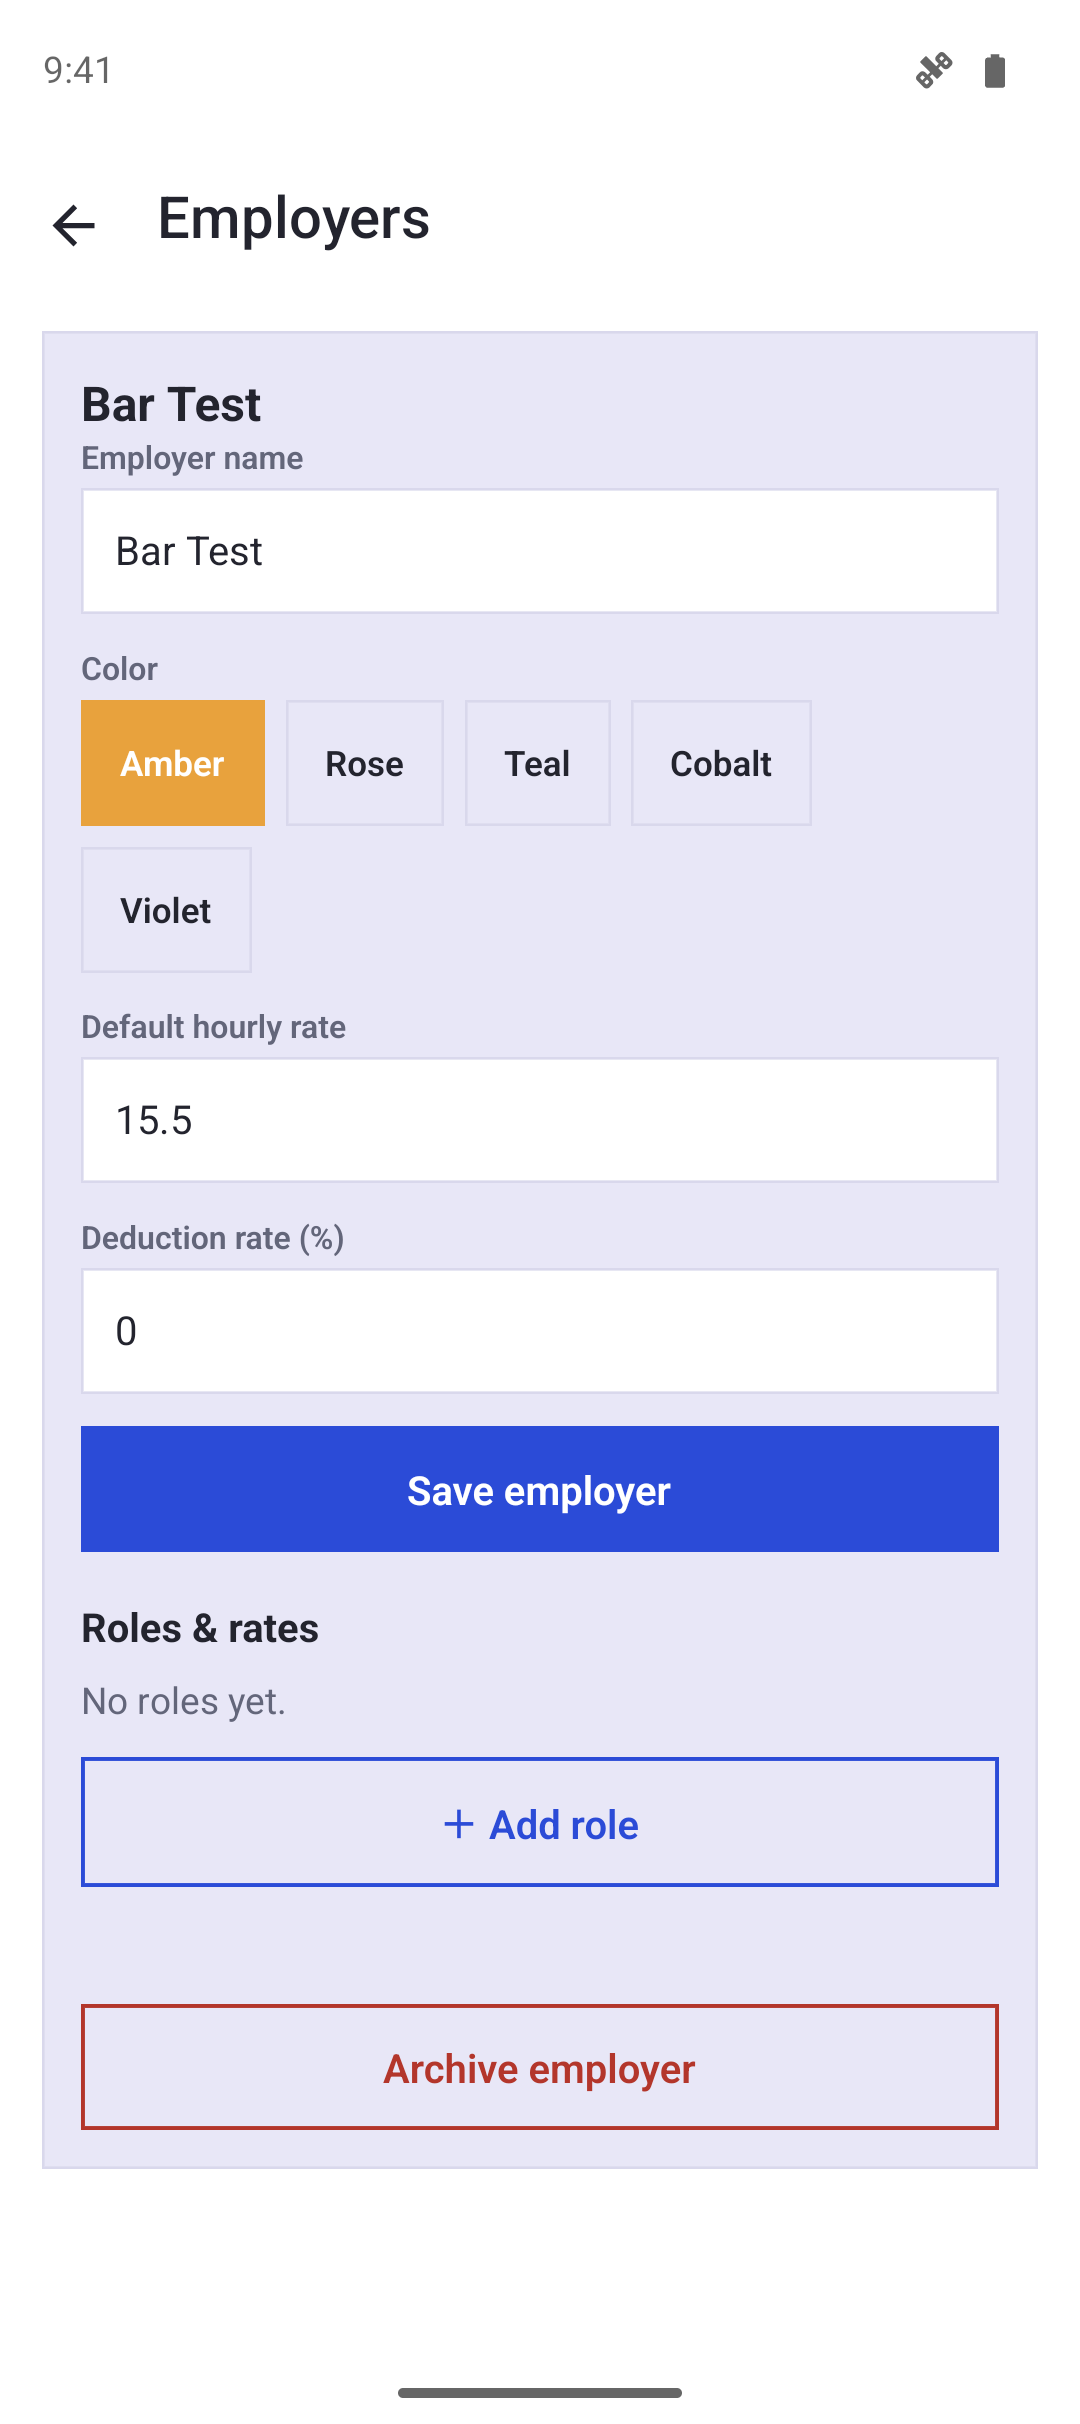
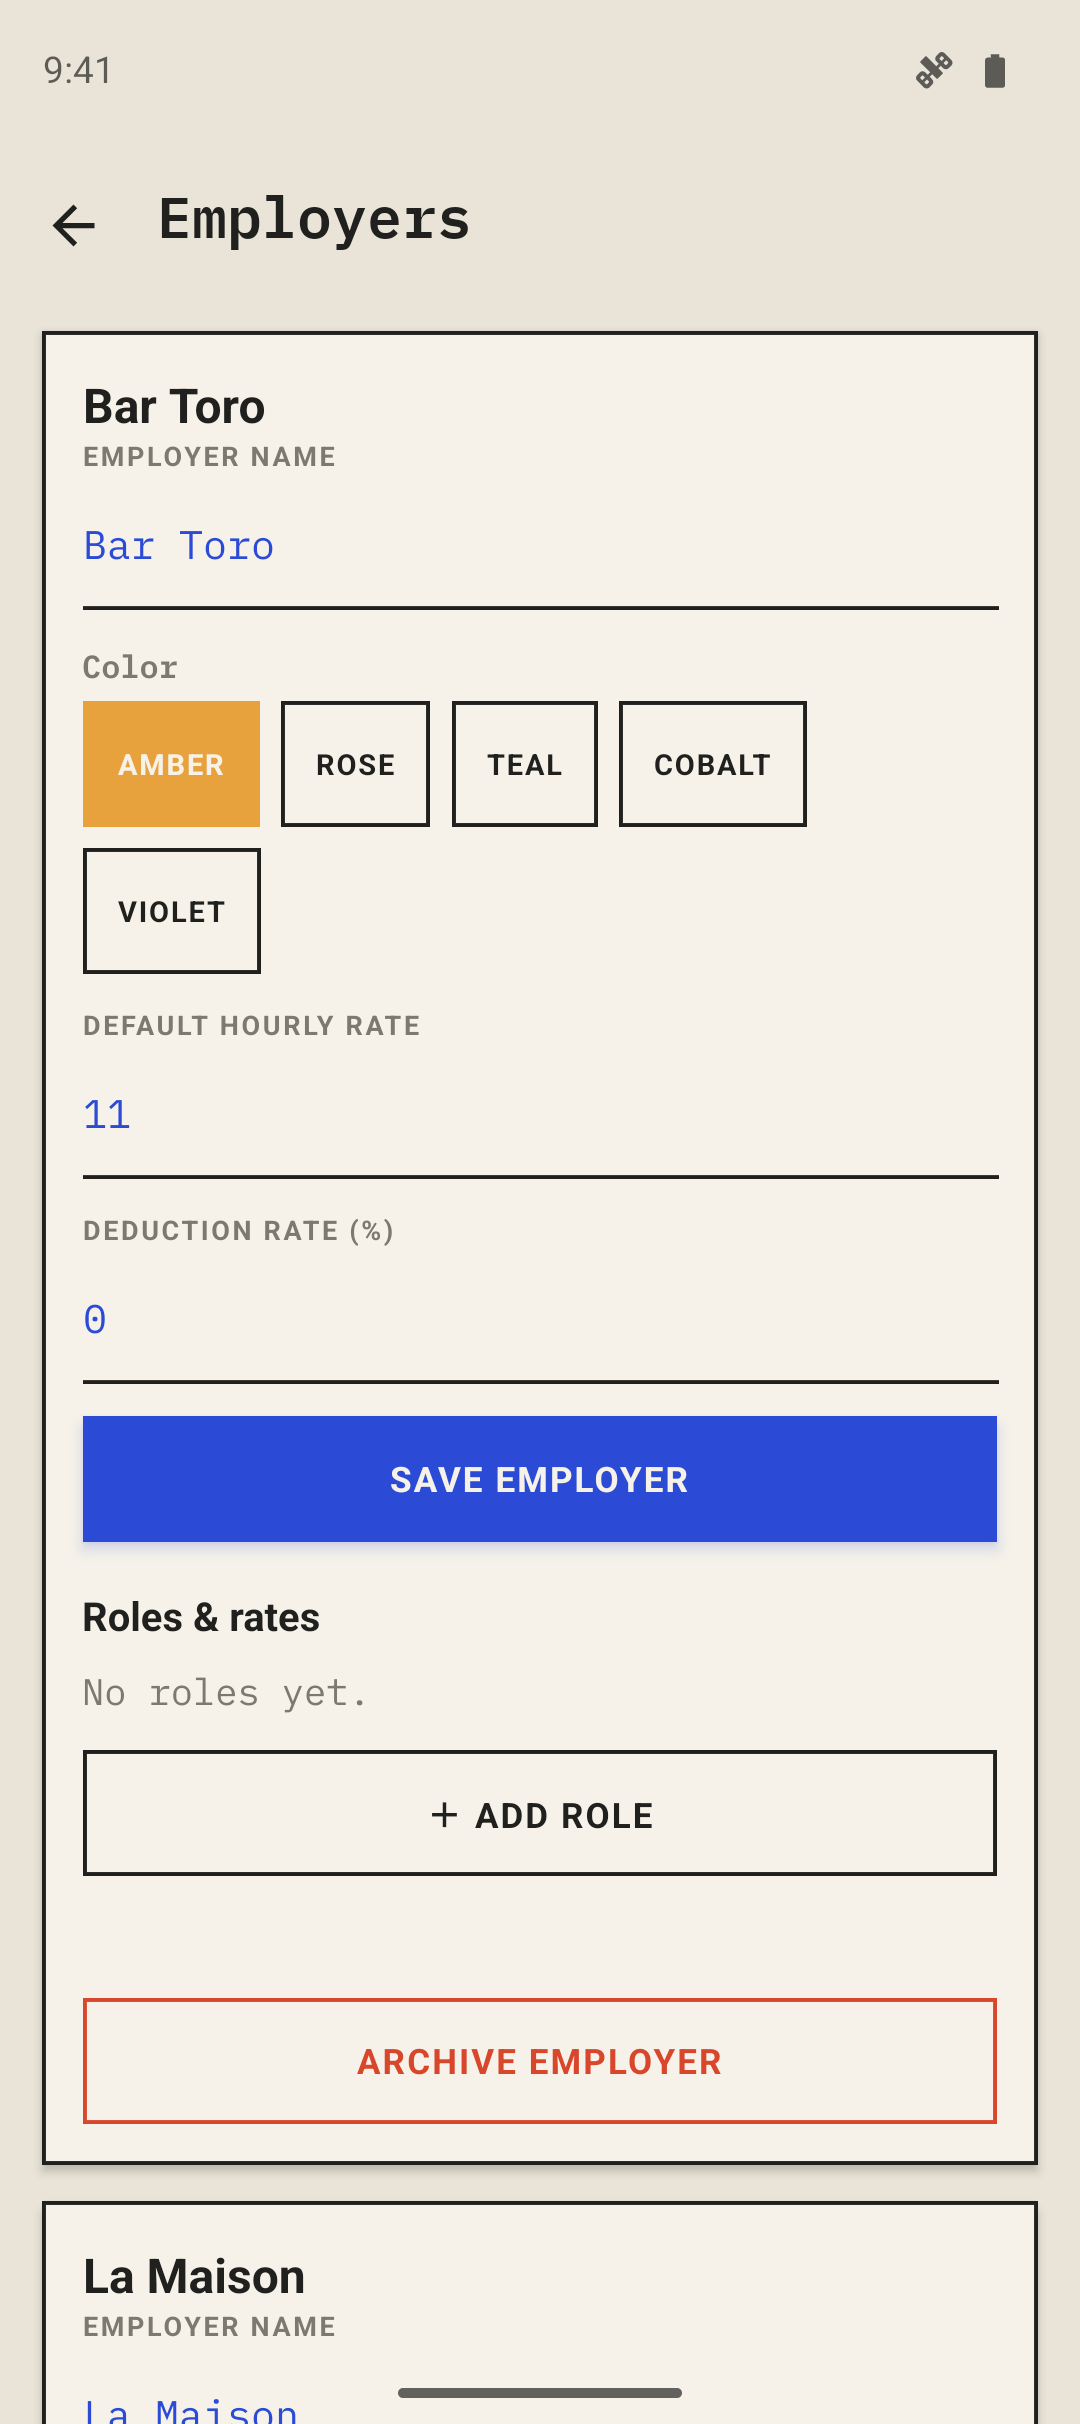
Recapture store screenshots on Shift Receipt redesign
Recaptured all store screens from the redesigned app (commit a107ccd,
'Shift Receipt' design: Home tab, receipt visual system, IBM Plex Mono) on a
Pixel 9 emulator, light mode, 1080-wide. Seeded a realistic week through the UI:
two employers (Bar Toro, La Maison), two closed-out shifts, one to close out,
one planned tonight — every figure is a real capture, no mockups.

- Adds new lead screen 00-home (week-tally receipt)
- Replaces 01-schedule..06-settings with redesigned captures
- Recomposes 1242x2208 store set (app paper bg, same framing as before)
- Updates app-screens.html captions for the redesign

Changed region(s): [[0.0, 0.0, 1.0, 1.0], [0.55, 0.2785, 0.7639, 0.3403]]

diff --git a/Docs/store-assets/app-screens.html b/Docs/store-assets/app-screens.html
@@ -24,17 +24,18 @@
 <body>
 <div class="intro">
   <h1>ProTip365 — real app screens</h1>
-  <p>Actual screenshots captured from the app running on a Pixel 9 emulator (fixed build). No mockups — every image is the real app.</p>
+  <p>Actual screenshots captured from the app running on a Pixel 9 emulator, restyled in the owner-approved “Shift Receipt” design (IBM Plex Mono, receipt visual system). No mockups — every image is the real app.</p>
 </div>
-<div class="note"><b>This is a partial set (6 of ~18 screens).</b> These are the screens we already captured for the store listing. The complete gallery — onboarding, Day/Month views, the two-step shift completion, shift result, passcode/lock, backup, templates, paywall — is being captured from the emulator and will replace this page.</div>
+<div class="note"><b>Seven screens in the current “Shift Receipt” set.</b> Captured on the redesigned build with a realistic week (two employers, two closed-out shifts, one to close out, one planned tonight). The complete gallery — onboarding, Day/Month views, passcode/lock, backup, templates, paywall — is still being captured and will extend this page.</div>
 
 <div class="grid">
-  <figure><img src="./screenshots/01-schedule.png" alt="Schedule"><figcaption><b>Schedule (home)</b><span>Week agenda · planned shifts · Add shift · Copy week</span></figcaption></figure>
-  <figure><img src="./screenshots/02-add-shift.png" alt="Add shift"><figcaption><b>Add shift — date picker</b><span>Employer, role, date/time; the picker that used to crash, now working</span></figcaption></figure>
-  <figure><img src="./screenshots/03-complete-shift.png" alt="Complete shift"><figcaption><b>Complete shift — tips &amp; payout</b><span>Log the real result: tips, tip-out, payout status, total</span></figcaption></figure>
-  <figure><img src="./screenshots/04-stats.png" alt="Stats"><figcaption><b>Stats</b><span>Expected vs actual, effective hourly, by employer</span></figcaption></figure>
-  <figure><img src="./screenshots/05-employers.png" alt="Employers"><figcaption><b>Employers</b><span>Roles, rates, deduction — the prefill engine</span></figcaption></figure>
-  <figure><img src="./screenshots/06-settings.png" alt="Settings"><figcaption><b>Settings</b><span>Language, deduction, export CSV, erase data</span></figcaption></figure>
+  <figure><img src="./screenshots/00-home.png" alt="Home"><figcaption><b>Home — your week so far</b><span>Receipt-style weekly tally: hours, tips, tip-out, real hourly rate, next shift</span></figcaption></figure>
+  <figure><img src="./screenshots/01-schedule.png" alt="Schedule"><figcaption><b>Schedule</b><span>Week agenda across employers · worked &amp; planned shifts · Copy week</span></figcaption></figure>
+  <figure><img src="./screenshots/02-add-shift.png" alt="Add shift"><figcaption><b>Add shift</b><span>Employer, rate, date &amp; time — plan a shift with a live earnings estimate</span></figcaption></figure>
+  <figure><img src="./screenshots/03-complete-shift.png" alt="Complete shift"><figcaption><b>Close out — tips &amp; payout</b><span>Log the real result: tip method, tips, tip-out, payout status, total</span></figcaption></figure>
+  <figure><img src="./screenshots/04-stats.png" alt="Stats"><figcaption><b>Stats</b><span>Expected vs actual, effective hourly, trends &amp; by employer</span></figcaption></figure>
+  <figure><img src="./screenshots/05-employers.png" alt="Employers"><figcaption><b>Employers</b><span>Colour, rate &amp; deduction per employer — the prefill engine</span></figcaption></figure>
+  <figure><img src="./screenshots/06-settings.png" alt="Settings"><figcaption><b>Settings</b><span>Language, currency, post-shift reminder, passcode, export &amp; erase</span></figcaption></figure>
 </div>
 </body>
 </html>
